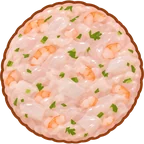
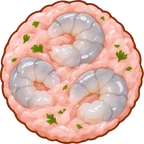
카피 버거: 보관함에 재료 이름, 한 판 길이 1분·1분30초·2분, 씨푸드패티를 분홍빛으로 구분
Claude-Session: https://claude.ai/code/session_015t7mwg1NEPVKJN39Z7Zz4S

diff --git a/js/g-burger.js b/js/g-burger.js
@@ -30,7 +30,7 @@ export const DEFS = `<svg width="0" height="0" style="position:absolute" aria-hi
 <linearGradient id="bgBunB" x1="0" y1="0" x2="0" y2="1"><stop offset="0" stop-color="#F3C583"/><stop offset="1" stop-color="#CE8A3F"/></linearGradient>
 <linearGradient id="bgBeef" x1="0" y1="0" x2="0" y2="1"><stop offset="0" stop-color="#8A5236"/><stop offset=".5" stop-color="#6A3B25"/><stop offset="1" stop-color="#472516"/></linearGradient>
 <linearGradient id="bgChk" x1="0" y1="0" x2="0" y2="1"><stop offset="0" stop-color="#F7C45E"/><stop offset="1" stop-color="#D98A22"/></linearGradient>
-<linearGradient id="bgSea" x1="0" y1="0" x2="0" y2="1"><stop offset="0" stop-color="#FBE0A8"/><stop offset="1" stop-color="#E3A95C"/></linearGradient>
+<linearGradient id="bgSea" x1="0" y1="0" x2="0" y2="1"><stop offset="0" stop-color="#FFC2B4"/><stop offset="1" stop-color="#F08A7A"/></linearGradient>
 <linearGradient id="bgChz" x1="0" y1="0" x2="0" y2="1"><stop offset="0" stop-color="#FFE266"/><stop offset="1" stop-color="#F7B91E"/></linearGradient>
 <linearGradient id="bgTom" x1="0" y1="0" x2="0" y2="1"><stop offset="0" stop-color="#F4625F"/><stop offset="1" stop-color="#C92E33"/></linearGradient>
 <linearGradient id="bgLet" x1="0" y1="0" x2="0" y2="1"><stop offset="0" stop-color="#B5E77C"/><stop offset="1" stop-color="#63B546"/></linearGradient>
@@ -46,7 +46,7 @@ const LAY = {
   onion: [7, y => `<rect x="9" y="${y + 0.5}" width="78" height="6" rx="3" fill="#FBF3FB" stroke="#A96FB8" stroke-width="1.3"/>${[20, 36, 52, 68, 82].map(x => `<ellipse cx="${x}" cy="${y + 3.5}" rx="6.5" ry="1.6" fill="none" stroke="#C79AD2" stroke-width="1.1"/>`).join('')}`],
   cheese: [8, y => `<path d="M5 ${y + 0.5}h86v3.5l-9 0q-3 5.5-6 0h-24q-3.5 6.5-7 0h-14q-2.5 4-5 0H5z" fill="url(#bgChz)" stroke="#C98F0A" stroke-width="1.3" stroke-linejoin="round"/><path d="M10 ${y + 2}h70" stroke="#FFF3B0" stroke-width="1.2" stroke-linecap="round" opacity=".9"/>`],
   tomato: [8, y => [[9, 38], [49, 38]].map(([x, w]) => `<rect x="${x}" y="${y + 0.5}" width="${w}" height="7" rx="3.5" fill="url(#bgTom)" stroke="#8E1F24" stroke-width="1.3"/><path d="M${x + 5} ${y + 3}h${w - 10}" stroke="#FF9C96" stroke-width="1.2" stroke-linecap="round" opacity=".85"/>${[8, 16, 24, 31].map(d => `<ellipse cx="${x + d}" cy="${y + 5.2}" rx="1.1" ry=".7" fill="#FFE39A"/>`).join('')}`).join('')],
-  seafood: [12, y => `<rect x="6" y="${y}" width="84" height="12" rx="6" fill="url(#bgSea)" stroke="#B07A2C" stroke-width="1.5"/>${[[16, 5, '#FF8E99'], [27, 8, '#fff'], [39, 4.5, '#FF8E99'], [50, 8, '#8FD06A'], [61, 5, '#FF8E99'], [72, 8, '#fff'], [82, 5.5, '#FF8E99']].map(([x, d, c]) => `<circle cx="${x}" cy="${y + d}" r="1.8" fill="${c}"/>`).join('')}`],
+  seafood: [12, y => `<rect x="6" y="${y}" width="84" height="12" rx="6" fill="url(#bgSea)" stroke="#B5544A" stroke-width="1.5"/>${[[16, 6, '#fff'], [28, 7.5, '#5FB04A'], [40, 5, '#fff'], [52, 7.5, '#5FB04A'], [64, 5, '#fff'], [76, 7.5, '#5FB04A'], [84, 5.5, '#fff']].map(([x, d, c]) => `<circle cx="${x}" cy="${y + d}" r="1.9" fill="${c}"/>`).join('')}`], // 연어빛 분홍 + 초록 허브: 노릇한 치킨패티와 확실히 다르게
   shrimp: [11, y => [15, 35, 55, 75].map(x => `<path d="M${x - 7} ${y + 9}a8 7 0 1 1 15 0" fill="none" stroke="#D5484A" stroke-width="6" stroke-linecap="round"/><path d="M${x - 7} ${y + 9}a8 7 0 1 1 15 0" fill="none" stroke="#FFA98F" stroke-width="3.6" stroke-linecap="round"/><path d="M${x - 5.5} ${y + 5.5}a6 5 0 0 1 11 -1" fill="none" stroke="#FFE0D2" stroke-width="1" stroke-linecap="round"/>`).join('')],
   chili: [6, y => `<path d="${wave(y + 3, 2.4, 12)}" fill="none" stroke="#9E141C" stroke-width="5.4" stroke-linecap="round"/><path d="${wave(y + 3, 2.4, 12)}" fill="none" stroke="#E5343D" stroke-width="3.6" stroke-linecap="round"/><path d="${wave(y + 2.2, 2.4, 12)}" fill="none" stroke="#FF9A9E" stroke-width=".9" stroke-linecap="round" opacity=".8"/>`],
   sweet: [6, y => `<path d="${wave(y + 3, 2.4, 12)}" fill="none" stroke="#B5720A" stroke-width="5.4" stroke-linecap="round"/><path d="${wave(y + 3, 2.4, 12)}" fill="none" stroke="#F7B02A" stroke-width="3.6" stroke-linecap="round"/><path d="${wave(y + 2.2, 2.4, 12)}" fill="none" stroke="#FFE7A6" stroke-width=".9" stroke-linecap="round" opacity=".9"/>`],
@@ -62,7 +62,8 @@ const one = k => `<svg viewBox="0 0 96 ${LAY[k][0] + 2}">${LAY[k][1](1)}</svg>`;
 
 /* ---------- 난이도와 주문 ---------- */
 const D5 = ['cola', 'cider', 'fanta', 'dew', 'pepper'], S5 = ['fries', 'cstick', 'hash', 'lstick', 'churros'], F6 = ['beef', 'chicken', 'lettuce', 'onion', 'cheese', 'tomato'];
-const TIMES = [['짧게', 1], ['보통', 1.5], ['길게', 2]]; // 한 판 길이: 기본 시간(하 120·중 150·상 180초)에 곱한다
+const TIMES = [['1분', 60], ['1분 30초', 90], ['2분', 120]]; // 한 판 길이(초)
+const SHORT = { beef: '고기', chicken: '치킨', seafood: '씨푸드', fries: '감튀', cstick: '치즈스틱', hash: '해쉬', lstick: '롱치즈', churros: '츄러스', pie: '파이', rings: '양파링', sfries: '시즈닝' }; // 보관함에 쓰는 짧은 이름
 const SKIP = 30; // 먼저 온 손님을 두고 뒤 손님 것을 먼저 내면 깎이는 점수
 const LEVEL = {
   e: { name: '하', drinks: D5.slice(0, 3), sides: S5.slice(0, 2), fills: ['beef', 'tomato', 'lettuce'], btn: ['beef', 'tomato', 'lettuce'], coop: 120, win: 3600, cust: 1, fry: 4000 },
@@ -105,7 +106,7 @@ export function mount(el, ctx) {
   let alive = true, S = null, roles = {}, best = {}, timer = 0;
   let mode = 'coop', diff = 'e', myRole = 'main', picked = false, calcOn = false, onlyOn = false, timeI = 1;
   try { const t = +localStorage.getItem('capy.burgerTime'); if (t >= 0 && t < TIMES.length && localStorage.getItem('capy.burgerTime') != null) timeI = t; } catch {}
-  const durOf = (d, m) => Math.round((LEVEL[d][m === 'coop' ? 'coop' : 'vs'] + (calcOn && !onlyOn ? 20 : 0)) * TIMES[timeI][1]); // 로비에서 고른 값
+  const durOf = () => TIMES[timeI][1]; // 로비에서 고른 값
   let L = null;            // 경쟁 모드의 내 진행 상황 { id, idx, score, tray }
   let mySel = -1, selRun = '';
   let K = null;            // 내 주방(불판·튀김기). 손님이 바뀌어도 그대로 남아서 미리 구워 둘 수 있다
@@ -146,9 +147,9 @@ export function mount(el, ctx) {
       h('label', { class: 'lbl' }, '모드'),
       h('div', { class: 'bg-row' }, chip(mode === 'coop', '🤝 협동', () => { mode = 'coop'; lobby(); }, '역할을 나눠 한 쟁반'), chip(mode === 'vs', '⚔ 경쟁', () => { mode = 'vs'; lobby(); }, '같은 손님, 총점 대결')),
       h('label', { class: 'lbl' }, '난이도'),
-      h('div', { class: 'bg-row' }, (mode === 'coop' ? ['e', 'm', 'h'] : ['m', 'h']).map(k => chip(diff === k, LEVEL[k].name, () => { diff = k; lobby(); }, `${durOf(k, mode)}초`))),
+      h('div', { class: 'bg-row' }, (mode === 'coop' ? ['e', 'm', 'h'] : ['m', 'h']).map(k => chip(diff === k, LEVEL[k].name, () => { diff = k; lobby(); }, `손님 ${LEVEL[k].cust}명`))),
       h('label', { class: 'lbl' }, '한 판 길이'),
-      h('div', { class: 'bg-row' }, TIMES.map(([n, m], i) => chip(timeI === i, n, () => { timeI = i; try { localStorage.setItem('capy.burgerTime', i); } catch {} lobby(); }, `×${m}`))),
+      h('div', { class: 'bg-row' }, TIMES.map(([n, m], i) => chip(timeI === i, n, () => { timeI = i; try { localStorage.setItem('capy.burgerTime', i); } catch {} lobby(); }, `${m}초`))),
       h('p', { class: 'dim bg-note' }, `손님 ${LV.cust > 1 ? '최대 ' + LV.cust + '명 동시' : '1명씩'} · 튀김 ${LV.fry / 1000}초 · 음료 ${LV.drinks.length}종 · 사이드 ${LV.sides.length}종 · 버거 재료 ${LV.btn.length}종${diff !== 'e' ? ' · 쉬운 손님도 가끔 와요' : ''}`),
       mode === 'coop' && !onlyOn && h('label', { class: 'lbl' }, '내 역할'),
       mode === 'coop' && !onlyOn && h('div', { class: 'bg-row' }, [['main', '🍔 메인', '굽기 · 버거 · 포장'], ['aux', '🥤 보조', '음료 · 튀김 · 계산'], ['both', '🙋 혼자', '전부 다']].map(([k, n, sub]) => chip(myRole === k, n, () => { myRole = k; picked = true; ctx.store.set('games/burgerRole/' + ctx.uid, k).catch(() => {}); lobby(); }, sub))),
@@ -221,7 +222,7 @@ export function mount(el, ctx) {
     sfx('pop'); keep.push(keep === K.hg ? { k: sl.k, t0: performance.now() } : sl.k); drawCtl(); // 꺼낸 것은 보관함에 두었다가 원하는 때 원하는 쟁반에 올린다
   }
   // 보관함: 다 익은 것을 모아 두는 곳. 식거나 타지 않는다
-  const holdRow = (keep, pic1, onUse, label) => h('div', { class: 'bg-hold' }, h('small', null, label), keep.map((k, i) => h('button', { class: 'bg-held', 'data-h': i, 'data-k': k.k || k, onClick: () => onUse(i), html: pic1(k) + (k.t0 ? '<i class="bg-fresh"><u></u></i>' : '') })), !keep.length && h('em', null, '익으면 눌러 꺼내 두기'));
+  const holdRow = (keep, pic1, onUse, label) => h('div', { class: 'bg-hold' }, h('small', null, label), keep.map((k, i) => h('button', { class: 'bg-held', 'data-h': i, 'data-k': k.k || k, onClick: () => onUse(i), html: pic1(k) + `<small>${SHORT[k.k || k] || ''}</small>` + (k.t0 ? '<i class="bg-fresh"><u></u></i>' : '') })), !keep.length && h('em', null, '익으면 눌러 꺼내 두기'));
   const cooker = (list, cook, attr, cls, onTake, icon) => h('div', { class: 'bg-cook ' + cls }, list.map((sl, i) => (sl
     ? h('button', { class: 'bg-pan', [attr]: i, onClick: () => onTake(i) }, h('span', { html: icon(sl.k) }), cls === 'fry' && h('em', { class: 'bg-sec' }), h('i', { class: 'bg-gauge', style: { background: gaugeBg(cook) } }, h('b')))
     : h('div', { class: 'bg-pan empty' }))));

diff --git a/css/app.css b/css/app.css
@@ -632,3 +632,6 @@ html.fixed-page,html.fixed-page body{overflow:hidden;height:100%;overscroll-beha
 .bg[data-only="1"] .bg-cc-b svg{max-height:74px;width:70px}.bg[data-only="1"] .bg-cc-r .bg-walker{width:42px}.bg[data-only="1"] .bg-cust.multi{padding-top:24px}.bg[data-only="1"] .bg-kitchen.one .grill .bg-pan{height:64px}.bg[data-only="1"] .bg-kitchen.one .bg-pt{width:46px;height:46px}
 .bg-book.quit{margin-left:4px;filter:saturate(.8)}.bg-top small{flex:1;min-width:0;white-space:nowrap;overflow:hidden;text-overflow:ellipsis}
 .bg-held{position:relative}.bg-fresh{position:absolute;left:1px;right:1px;bottom:-3px;height:4px;border-radius:2px;background:rgba(0,0,0,.55);overflow:hidden}.bg-fresh u{display:block;height:100%;width:100%;background:#57C26B}.bg-held.old{animation:bgpulse .5s infinite alternate}.grillS .bg-hold{padding-bottom:4px}
+.bg-held{width:30px;height:auto;padding:1px 0 2px;border-radius:9px;display:flex;flex-direction:column;align-items:center}.bg-held img{width:22px;height:22px}.bg-station .bg-hold .bg-held small{display:block;margin:0;font-size:8.5px;line-height:1.1;color:#3B2618;white-space:nowrap;letter-spacing:-.7px}
+.bg-hold{min-height:38px}.bg-fresh{bottom:-4px}.grill .bg-pan{height:33px}.fry .bg-pan{height:62px}
+.bg-pan .bg-gauge{flex:none}.grill .bg-pan{height:36px}
